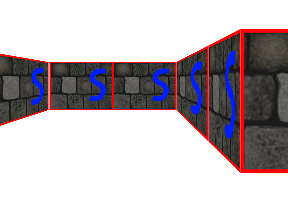
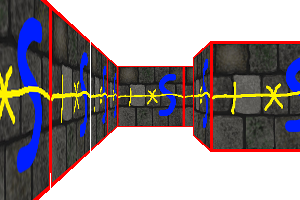
updated result image

diff --git a/new.py b/new.py
@@ -194,7 +194,7 @@ def generate_tiles(source_wall_filename, result_name, wall_dims, sides,
         
 if __name__ == '__main__':
     
-    generate_tiles('wall.png', 'coisas', (50, 40), 3, 3, 50, 
+    generate_tiles('wall.png', 'coisas', (50, 40), 3, 4, 50, 
                     (300, 200), horizontal_fov=90, vertical_fov=60)
     
         
